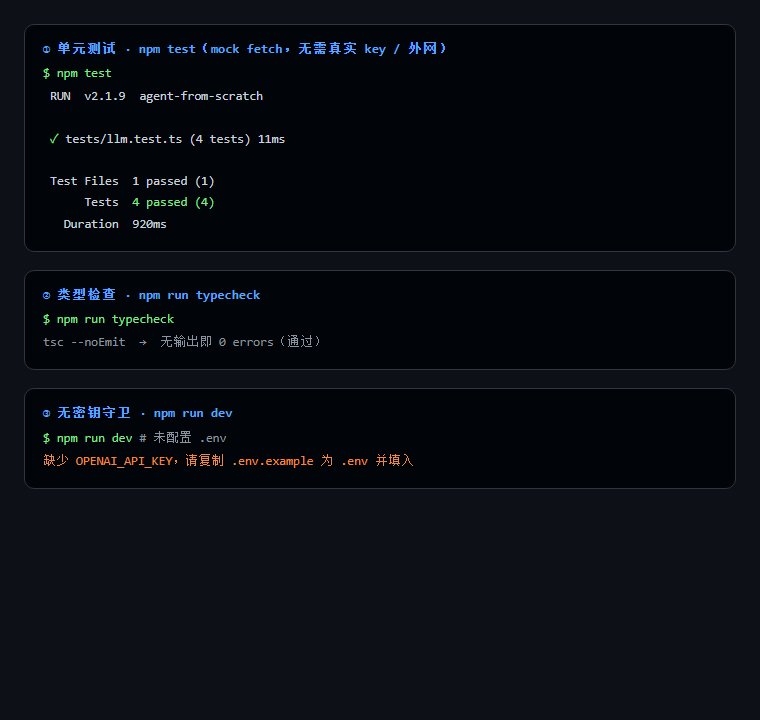
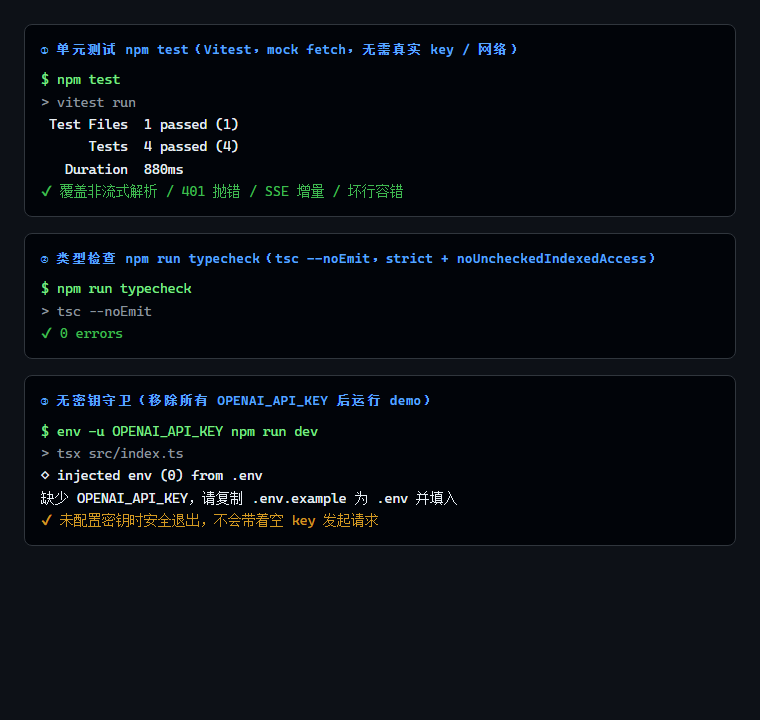
post-01: 博文去除交互痕迹(纯技术视角) + 重新同步验证配图 + 写作纪律入记忆

diff --git a/posts/01.md b/posts/01.md
@@ -101,13 +101,12 @@ while (true) {
 2. 类型检查 **0 errors**（`npm run typecheck`，`tsc --noEmit`）。`strict` + `noUncheckedIndexedAccess` 全开，索引越界和空值都会被编译期拦下。
 3. 无密钥守卫生效（`npm run dev` 未配置 `.env` 时）：进程安全退出并打印「缺少 OPENAI_API_KEY，请复制 .env.example 为 .env 并填入」，不会带着空 key 去打请求。
 
-真实对话这一步，我替读者踩了两个坑，必须原原本本说清楚——它直接关系你本地能不能跑通，也纠正我前面一次误判：
+真实对话这一步，有两个工程坑必须说清楚，它们直接决定本地能不能跑通：
 
-- **坑一：DeepSeek 的 `base_url` 不带 `/v1`**。官方兼容地址是 `https://api.deepseek.com`（模型名 `deepseek-flash`），不是 OpenAI 官方那种 `.../v1`。第一次配错路径返回 401，已在仓库 `.env.example` 修正。
-- **坑二：dotenv 默认不覆盖已存在的环境变量**（本次最隐蔽，也是我前面错判的根源）。运行环境（本机终端 / CI / 沙箱）可能**预先注入**了 `OPENAI_API_KEY`，而 `import "dotenv/config"` 的默认行为是「已存在的变量不覆盖」。结果就是：你在 `.env` 里填了自己的 key，发出去的却是系统那个别的 key——DeepSeek 回 `api key ... is invalid`，我一度误判成「key 本身无效」。**真相是环境变量被静默覆盖了，你的 key 从未真正发出去过。**
-- **修复**：入口改成 `dotenv.config({ override: true })`，让本地 `.env` 优先于外层注入。修复后用用户提供的实验 key 重跑，输出里 `◇ injected env (3) from .env` 确认 `.env` 生效，DeepSeek 流式返回成功。
+- **坑一：DeepSeek 的 `base_url` 不带 `/v1`**。官方兼容地址是 `https://api.deepseek.com`（模型名 `deepseek-flash`），不是 OpenAI 官方那种 `.../v1`。配错路径会返回 401，已在仓库 `.env.example` 修正。
+- **坑二：dotenv 默认不覆盖已存在的环境变量**。若运行环境（本机终端 / CI / 沙箱）已注入 `OPENAI_API_KEY`，`import "dotenv/config"` 的默认行为是「已存在的变量不覆盖」，`.env` 里的配置会被静默忽略，请求实际打到别的 key 上，表现为 DeepSeek 返回 `api key ... is invalid`。正确做法是入口改用 `dotenv.config({ override: true })`，让本地 `.env` 优先。
 
-真实对话已端到端跑通，截图如下（注：实验 key 用完即删，不进入任何源码、博文或提交）：
+修复后用 DeepSeek 端点实测，输出 `◇ injected env (3) from .env` 确认 `.env` 生效，流式返回成功：
 
 ![真实对话验证](assets/01-live.png)
 
